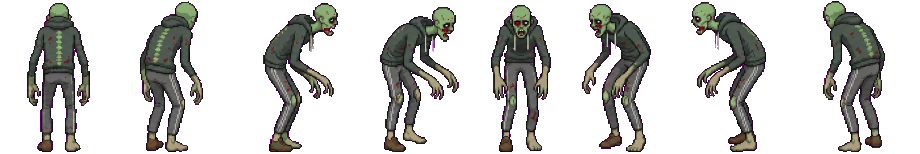
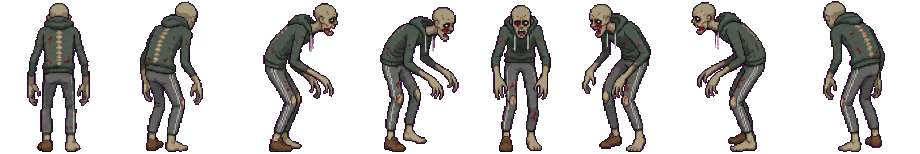
Zombie skin: leave green, grey and olive skin alone (auto), only flesh/pink becomes green
Runner, missing-arm x2 and crawler keep their original pale grey/olive skin; they still get blood on the mouth.
skin: auto decides from the face hue (below 25 = flesh).

Claude-Session: https://claude.ai/code/session_01TYR4qBEQsD3TQ7ujE3e9pS

diff --git a/tools/pixelforge/pixelforge/zombify.py b/tools/pixelforge/pixelforge/zombify.py
@@ -183,6 +183,20 @@ def _paint_blood(arr, mouth):
     return arr
 
 
+def _is_flesh(arrs, masks):
+    """True when the face skin is flesh / pink (hue below 25 or wrapping past 330) and not grey or olive."""
+    hs, ss = [], []
+    for a, (face, _, _) in zip(arrs, masks):
+        if face.any():
+            h, s, _ = _hsv(a[..., :3])
+            hs.append(h[face]); ss.append(s[face])
+    if not hs:
+        return False
+    h, s = np.concatenate(hs), np.concatenate(ss)
+    flesh = ((h < 25) | (h >= 330)) & (s >= 0.22)
+    return float(flesh.mean()) > 0.5
+
+
 def zombify(cells, dnames, cid, cfg=None):
     """cells: list of 8 RGBA PIL images (full res, same canvas). Returns new list."""
     full = cfg or load_cfg()
@@ -191,7 +205,10 @@ def zombify(cells, dnames, cid, cfg=None):
     head_frac = c.get("head_frac", 0.27)
     arrs = [np.array(im) for im in cells]
     masks = [skin_masks(a, hue, head_frac, bool(c.get("big_skin")), c.get("bright_factor", 0.78)) for a in arrs]
-    if c["skin"] == "green":
+    mode = c["skin"]
+    if mode == "auto":                                     # already green / grey / olive skin is left alone
+        mode = "green" if _is_flesh(arrs, masks) else "keep"
+    if mode == "green":
         target = np.array([int(c["skin_color"][i:i + 2], 16) for i in (1, 3, 5)], float)
         sel = [(f | b) for f, _, b in masks]
         px = np.concatenate([a[..., :3][m] for a, m in zip(arrs, sel) if m.any()])

diff --git a/tools/pixelforge/AGENTS.md b/tools/pixelforge/AGENTS.md
@@ -35,7 +35,8 @@ Extra characters (not in the package): `sources/characters.json` + one transpare
 export: `POST /v2/create-character-v3` ~3 generations at 128x128, poll `/v2/background-jobs/<id>`, `GET /v2/characters/<id>/zip`). `sheets` builds them like the rest
 (obese_male, obese_female = the big infected; the muscular `brute` is kept for mutated infected).
 
-Zombie look: every infected id in `zombify.json` gets green skin (face, neck, hands recoloured keeping the shading) and blood on the mouth in the
+Zombie look: every infected id in `zombify.json` gets blood on the mouth in the views where the face shows, and flesh/pink skin recoloured to green
+(`skin: auto`: skin that is already green, grey or olive is NOT changed; `green` forces it, `keep` forbids it). Face, neck, hands keep their shading. In the
 views where the face shows. Per-character knobs: `skin` (green|keep), `hue`, `head_frac`, `bright_factor`, `big_skin`, `mouth_k`, `mouth_y` (mouth height as a
 fraction of the figure height, for dark faces). Edit, then re-run `sheets --only <id>`. Check with a face contact sheet before committing.
 
